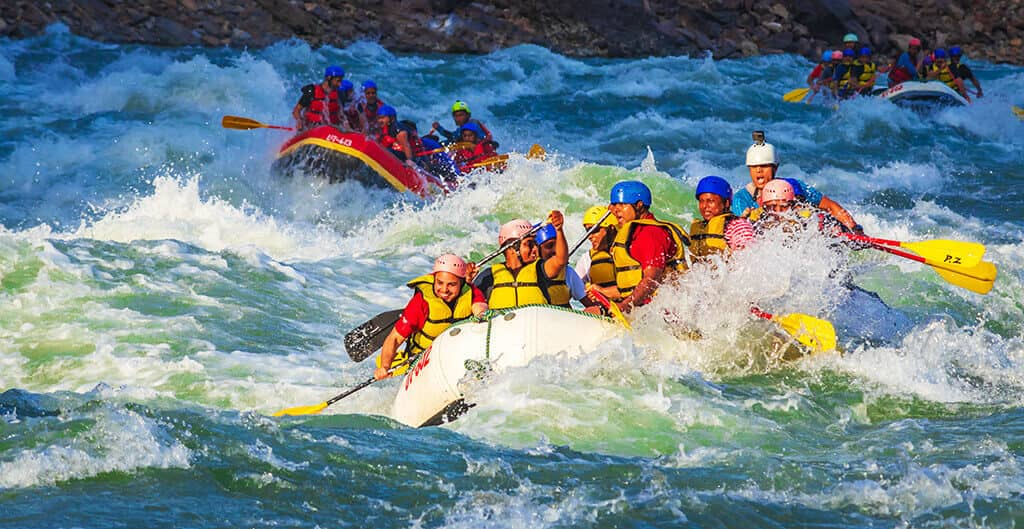
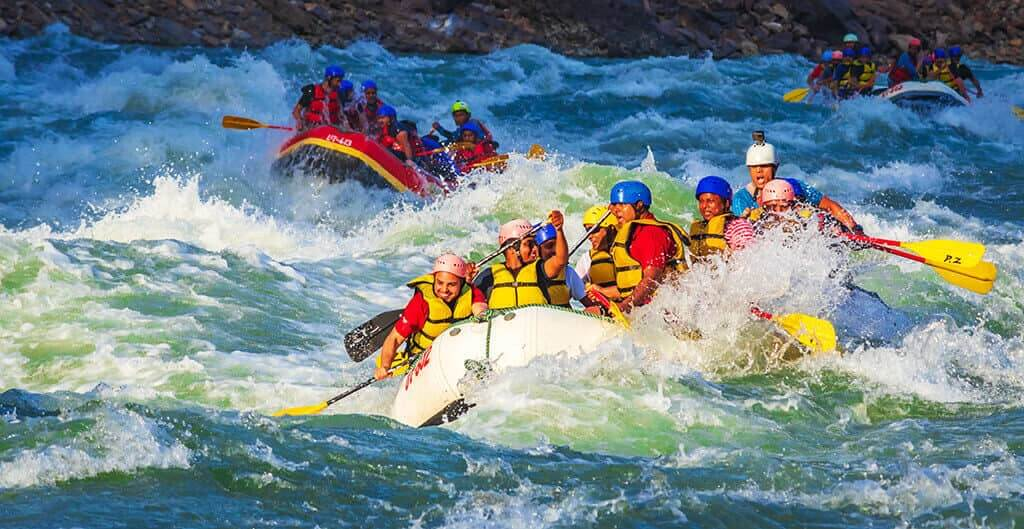
update week 04

diff --git a/wwr/about.html b/wwr/about.html
@@ -1,10 +1,12 @@
 <!DOCTYPE html>
 <html lang="en">
+
 <head>
     <meta charset="UTF-8">
     <meta name="viewport" content="width=device-width, initial-scale=1.0">
     <title>About Us</title>
-    <meta name="description"   content="Rafting Travel white water rafting adventures with Exciting Expeditions. Learn about our company, history, and unforgettable rafting trips.">
+    <meta name="description"
+      content="Rafting Travel white water rafting adventures with Exciting Expeditions. Learn about our company, history, and unforgettable rafting trips.">
     <meta name="author" content="José Bejarano">
     <link rel="stylesheet" href="styles/rafting.css">
 </head>
@@ -25,31 +27,94 @@
             <h1>Rafting Travel</h1>
             <article>
                 <img src="images/client.jpg" alt="Happy rafting client smiling">
-                <p>Our mission is to provide safe, exciting, and unforgettable white water rafting adventures while respecting nature and creating lasting memories for every guest.
+                <p>Our mission is to provide safe, exciting, and unforgettable white water rafting
+                    adventures while respecting nature and creating lasting memories for every
+                    guest.
                 </p>
 
-                
 
             </article>
-             </div>
-            <section>
+        </div>
+        <section>
+            <div class="history">
+
                 <h2>History</h2>
-                <p>Rafting Travel was founded in 2018 by a group of outdoor enthusiasts who shared a passion for white water rafting and nature. What began as a small local adventure with a single raft soon grew into a trusted company offering unforgettable experiences for families, friends, and thrill-seekers. Today, we continue our mission of creating exciting adventures while promoting safety, teamwork, and respect for the environment.
+                <img src="images/history.jpg" alt="history">
+                <p>Rafting Travel was founded in 2018 by a group of outdoor
+                    enthusiasts who shared a
+                    passion for white water rafting and nature. What began as a small local
+                    adventure
+                    with a single raft soon grew into a trusted company offering unforgettable
+                    experiences for families, friends, and thrill-seekers. Today, we continue our
+                    mission of creating exciting adventures while promoting safety, teamwork, and
+                    respect for the environment.
                 </p>
-            </section>
-            <section>
-                <h2>Adventure Awaits You!</h2>
-                
-            </section>
+                <p>As the years passed, Rafting Travel expanded its routes, improved its safety
+                    training, and welcomed
+                    more visitors from different places. Our team remains committed to offering
+                    memorable experiences
+                    that connect people with nature and create adventures worth remembering.</p>
+            </div>
+        </section>
+        <section>
+            <h2 class="adventure">Adventure Awaits You!</h2>
+            <div class="gallery">
+                <figure>
+                    <img src="images/canoagem1.jpg" alt="adventure 1">
+
+
+                    <figcaption>
+                        adventure 1
+                    </figcaption>
+                </figure>
+
+                <figure>
+                    <img src="images/canoagem2.jpg" alt="adventure 2">
+
+
+                    <figcaption>
+                        adventure 2
+                    </figcaption>
+                </figure>
+
+                <figure>
+                    <img src="images/canoagem3.jpg" alt="adventure 3">
+
+
+                    <figcaption>
+                        adventure 3
+                    </figcaption>
+                </figure>
+
+                <figure>
+                    <img src="images/canoagem4.jpg" alt="adventure 4">
+
+
+                    <figcaption>
+                        adventure 4
+                    </figcaption>
+                </figure>
+
+                <figure>
+                    <img src="images/canoagem5.jpg" alt="adventure 5">
+
+
+                    <figcaption>
+                        adventure 5
+                    </figcaption>
+                </figure>
+            </div>
+
+        </section>
     </main>
     <footer>
         <p>&copy; 2026 | Rafting Travel | José Bejarano</p>
 
         <nav class="socialmedia">
-            <a  href="https://www.facebook.com">
+            <a href="https://www.facebook.com">
                 <img src="images/facebook.png" alt="facebook icon">
             </a>
-            <a  href="https://www.linkedin.com">
+            <a href="https://www.linkedin.com">
                 <img src="images/linkedin.png" alt="linkedin icon">
             </a>
             <a href="https://www.instagram.com">
@@ -59,4 +124,5 @@
 
     </footer>
 </body>
+
 </html>

diff --git a/wwr/styles/rafting.css b/wwr/styles/rafting.css
@@ -15,66 +15,82 @@
     padding: 0;
     box-sizing: border-box;
 }
-:root{
-    --primary-color:#264653; ;
+
+:root {
+    --primary-color: #264653;
     --secondary-color: #f4a261;
     --accent1-color: #264653;
     --accent2-color: #e9c46a;
     --heading-font: "Times New Roman", "Georgia", serif;
-    --body-font:Arial, Helvetica, sans-serif;
+    --body-font: Arial, Helvetica, sans-serif;
 }
 
-header{
-    display: flex;
-    justify-content: space-between;
+/* Header part */
+header {
+    display: grid;
+    grid-template-columns: 150px 1fr;
     align-items: center;
+
+    padding: 20px;
     color: var(--accent2-color);
 }
-header img{
+
+header img {
     width: 120px;
+    height: auto;
 }
-body{
+
+/* Header part */
+
+/* Body part */
+
+body {
     font-family: var(--body-font);
     color: var(--accent1-color);
 }
 
-header, main, footer{
+/* Body part */
+
+header,
+main,
+footer {
     width: 840px;
     margin: 0 auto;
 }
 
-nav,p,section,article   {
-    margin: 16px;
-    padding: 8px;
-    
-}
-nav{
+/* nav part */
+
+nav {
     display: flex;
-    gap: 20px;
+    justify-content: space-evenly;
+    align-items: center;
+
 }
 
-nav a{
+nav a {
     color: var(--secondary-color);
-}
-.socialmedia a{
+    padding: 12px 20px;
+    border: 1px solid #666;
+    background-color: white;
     text-decoration: none;
-    display:flex;
-    gap:15px;
+}
 
-}
-.socialmedia img{
-    width: 40px;
-}
-.hero{
+/* nav part */
+
+/* hero part */
+
+.hero {
     position: relative;
     margin-bottom: 20px;
 }
-.hero > img{
+
+.hero > img {
     display: block;
     width: 100%;
     height: auto;
 }
-.hero article{
+
+.hero article {
     position: absolute;
     padding: 15px;
 
@@ -85,36 +101,125 @@ nav a{
     background-color: rgba(255, 255, 255, 0.7);
 
 }
-.hero article img{
+
+.hero article img {
     float: right;
-    width:  125px;
+    width: 125px;
     margin-left: 20px;
 }
-.hero h1{
-     position:absolute;
-    top:20px;
-    width:100%;
-    padding:16px;
 
-    text-align:center;
+.hero h1 {
+    position: absolute;
+    top: 20px;
+    width: 100%;
+    padding: 16px;
 
-    background-color: rgba(38,70,83,0.7);
-    color:white;
+    text-align: center;
+
+    background-color: rgba(38, 70, 83, 0.7);
+    color: white;
 }
 
-section{
+/*hero part */
+
+/*history part */
+
+.history {
+    display: grid;
+    grid-template-columns: 1fr 200px 1fr;
+    gap: 20px;
+
+    padding: 20px;
+}
+
+.history h2 {
+    grid-column: 1 / 4;
+    text-align: center;
+}
+
+.history img {
+    width: 100%;
+    height: 130px;
+    object-fit: cover;
+}
+
+.history p {
+    text-align: left;
+    line-height: 1.5;
+}
+
+/*history part */
+
+/*galley part */
+
+.gallery {
+    display: flex;
+    justify-content: center;
+    gap: 15px;
+
+}
+
+.gallery figure {
+    flex: 1;
+    text-align: center;
+}
+
+.gallery img {
+    width: 100%;
+    height: 165px;
+    object-fit: cover;
+    display: block;
+}
+
+.gallery figcaption {
+    margin-top: 10px;
+    font-family: var(--heading-font);
+    font-size: 1.05rem;
+}
+
+/*galley part */
+
+/* Socialmedia part */
+
+.socialmedia {
+    display: flex;
+    gap: 15px;
+}
+
+.socialmedia img {
+    width: 40px;
+
+}
+
+/* socialmedia part */
+
+/* section part */
+
+section {
     margin: 20px 0;
     padding: 15px;
     text-align: center;
     background-color: var(--primary-color);
     color: white
 }
-h2
-h1
- {
-    font-family: var(--heading-font);
+
+section img {
+    width: 100%;
+}
+
+h1 {
+
     color: white;
-    text-align: center;
-    padding: 15px;
-    
+
+}
+
+h2 {
+    font-family: var(--heading-font);
+}
+
+footer {
+    display: flex;
+    justify-content: space-between;
+    align-items: center;
+    padding: 20px;
 }

diff --git a/index.html b/index.html
@@ -46,7 +46,7 @@
             connecting ideas, and turning concepts into real-world projects through technology.
             My interests include programming, process automation, data analysis, and artificial
             intelligence, particularly using tools such as Python, JavaScript, APIs, and n8n. I
-            learn best by building, experimenting, and understanding how systems work internally.
+            learn best by building,cla experimenting, and understanding how systems work internally.
             Beyond technology, I am committed to continuous personal and professional growth. I
             actively work on improving my communication skills, learning new languages, and
             expanding my knowledge to take on increasingly complex challenges. My goal is to create
